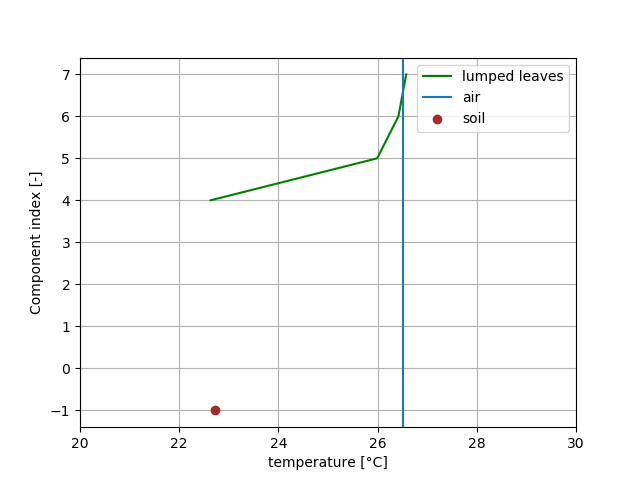
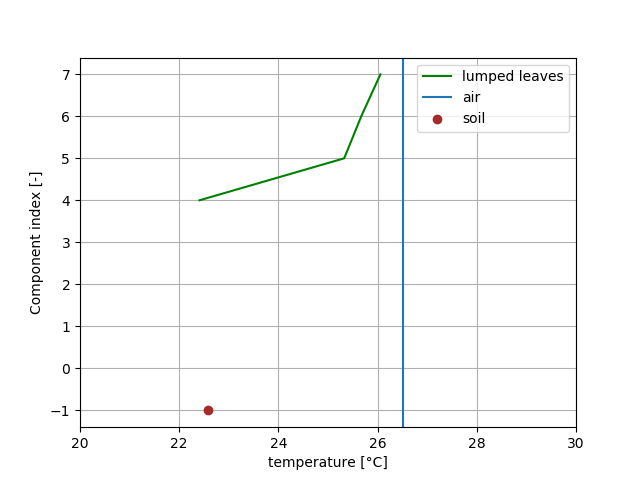
corrected the calculation of surface conductance of lumped leaf layers (use of incident irradiance in inputs)

diff --git a/src/crop_energy_balance/formalisms/lumped_leaves.py b/src/crop_energy_balance/formalisms/lumped_leaves.py
@@ -54,7 +54,7 @@ def calc_leaf_layer_boundary_resistance_to_heat(wind_speed_at_canopy_height: flo
     return 1.0 / calc_leaf_layer_boundary_conductance_to_vapor(**locals())
 
 
-def calc_leaf_layer_surface_conductance_to_vapor(absorbed_irradiance: float,
+def calc_leaf_layer_surface_conductance_to_vapor(incident_irradiance: float,
                                                  upper_cumulative_leaf_area_index: float,
                                                  lower_cumulative_leaf_area_index: float,
                                                  stomatal_sensibility_to_water_status: float,
@@ -65,7 +65,7 @@ def calc_leaf_layer_surface_conductance_to_vapor(absorbed_irradiance: float,
     """Calculates the bulk surface conductance of a leaf layer for both sides of leaves blade.
 
     Args:
-        absorbed_irradiance: [W m-2ground] absorbed photosynthetically active radiation
+        incident_irradiance: [W m-2ground] incident photosynthetically active radiation above the canopy
         upper_cumulative_leaf_area_index: [m2leaf m-2ground] cumulative leaf area index above the considered layer
         lower_cumulative_leaf_area_index: [m2leaf m-2ground] cumulative leaf area index below the considered layer
         stomatal_sensibility_to_water_status: [-] stomatal closure fraction due to water stress
@@ -80,16 +80,16 @@ def calc_leaf_layer_surface_conductance_to_vapor(absorbed_irradiance: float,
         [m h-1] bulk surface conductance of the leaf layer for both sides of leaves blade
     """
     scaling_factor = 1.0 / global_extinction_coefficient * log(
-        (global_extinction_coefficient * absorbed_irradiance *
+        (global_extinction_coefficient * incident_irradiance *
          exp(-global_extinction_coefficient * upper_cumulative_leaf_area_index) + shape_parameter) /
-        (global_extinction_coefficient * absorbed_irradiance *
+        (global_extinction_coefficient * incident_irradiance *
          exp(-global_extinction_coefficient * lower_cumulative_leaf_area_index) + shape_parameter))
 
     return residual_stomatal_conductance * (
             1 - scaling_factor) + maximum_stomatal_conductance * stomatal_sensibility_to_water_status * scaling_factor
 
 
-def calc_leaf_layer_surface_resistance_to_vapor(absorbed_irradiance: float,
+def calc_leaf_layer_surface_resistance_to_vapor(incident_irradiance: float,
                                                 upper_cumulative_leaf_area_index: float,
                                                 lower_cumulative_leaf_area_index: float,
                                                 stomatal_sensibility_to_water_status: float,
@@ -101,7 +101,7 @@ def calc_leaf_layer_surface_resistance_to_vapor(absorbed_irradiance: float,
     """Calculates the bulk surface conductance of a leaf layer.
 
     Args:
-        absorbed_irradiance: [W m-2ground] absorbed photosynthetically active radiation
+        incident_irradiance: [W m-2ground] incident photosynthetically active radiation above the canopy
         upper_cumulative_leaf_area_index: [m2leaf m-2ground] cumulative leaf area index above the considered layer
         lower_cumulative_leaf_area_index: [m2leaf m-2ground] cumulative leaf area index below the considered layer
         stomatal_sensibility_to_water_status: [-] stomatal closure fraction due to water stress

diff --git a/src/crop_energy_balance/inputs.py b/src/crop_energy_balance/inputs.py
@@ -61,13 +61,22 @@ class Inputs:
             The uppermost layer must have the highest number while the lowermost layer has the lowest number.
         """
 
-        self.absorbed_irradiance = self._inputs['absorbed_photosynthetically_active_radiation']
-        """[W_{PAR} m-2ground] dictionary of absorbed photosynthetically active radiation per crop component
+        self.incident_irradiance = self._inputs['incident_photosynthetically_active_radiation']
+        """[W_{PAR} m-2ground] dictionary of incident photosynthetically active radiation.
 
         Notes:
-            For lumped leaves, the absorbed irradiance per leaf layer is a dictionary having the key 'lumped'
+            For lumped leaves, the absorbed irradiance per leaf layer is a dictionary having the key 'lumped'.
             For sunlit and shaded leaves, the absorbed irradiance per leaf layer is a dictionary having the keys
-                'sunlit' and 'shaded'
+                'sunlit' and 'shaded'.
+        """
+
+        self.absorbed_irradiance = self._inputs['absorbed_photosynthetically_active_radiation']
+        """[W_{PAR} m-2ground] dictionary of absorbed photosynthetically active radiation per crop component.
+
+        Notes:
+            For lumped leaves, the absorbed irradiance per leaf layer is a dictionary having the key 'lumped'.
+            For sunlit and shaded leaves, the absorbed irradiance per leaf layer is a dictionary having the keys
+                'sunlit' and 'shaded'.
             The uppermost component must have the highest number while the lowermost component, i.e. soil, has the
                 lowest number which must be equal to -1.
         """
@@ -89,13 +98,6 @@ class LumpedInputs(Inputs):
 class SunlitShadedInputs(Inputs):
     def __init__(self, inputs_path: Path):
         Inputs.__init__(self, inputs_path)
-
-        self.incident_par = self._inputs['incident_photosynthetically_active_radiation']
-        """[W_{PAR} m-2ground] dictionary of incident photosynthetically active radiation.
-
-        Notes:
-            This input must be a dictionary having two keys, respectively 'sunlit' and 'shaded'
-        """
 
         self.solar_inclination = self._inputs['solar_inclination']
         """(Rad) the angle between solar beam and the horizon.

diff --git a/src/crop_energy_balance/crop.py b/src/crop_energy_balance/crop.py
@@ -11,6 +11,7 @@ constants = Constants()
 class CanopyStateVariables:
     def __init__(self,
                  inputs: LumpedInputs or SunlitShadedInputs):
+        self.incident_irradiance= inputs.incident_irradiance
         self.vapor_pressure_deficit = inputs.vapor_pressure_deficit
         self.vapor_pressure_slope = weather.calc_vapor_pressure_slope(
             utils.convert_kelvin_to_celsius(inputs.air_temperature, constants.absolute_zero))
@@ -224,7 +225,7 @@ class LumpedLeafComponent(LeafComponent):
             inputs.vapor_pressure_deficit,
             params.simulation.vapor_pressure_deficit_coefficient)
         self.surface_resistance = lumped_leaves.calc_leaf_layer_surface_resistance_to_vapor(
-            absorbed_irradiance=self.absorbed_irradiance,
+            incident_irradiance=canopy_state_variables.incident_irradiance['lumped'],
             upper_cumulative_leaf_area_index=self.upper_cumulative_leaf_area_index,
             lower_cumulative_leaf_area_index=self.lower_cumulative_leaf_area_index,
             stomatal_sensibility_to_water_status=self.stomatal_sensibility,
@@ -263,8 +264,8 @@ class SunlitShadedLeafComponent(LeafComponent):
             params.simulation.vapor_pressure_deficit_coefficient)
         self.surface_resistance = sunlit_shaded_leaves.calc_leaf_layer_surface_resistance_to_vapor(
             leaves_category=self.leaves_category,
-            incident_direct_irradiance=inputs.incident_par['direct'],
-            incident_diffuse_irradiance=inputs.incident_par['diffuse'],
+            incident_direct_irradiance=inputs.incident_irradiance['direct'],
+            incident_diffuse_irradiance=inputs.incident_irradiance['diffuse'],
             upper_cumulative_leaf_area_index=self.upper_cumulative_leaf_area_index,
             lower_cumulative_leaf_area_index=self.lower_cumulative_leaf_area_index,
             stomatal_sensibility_to_water_status=self.stomatal_sensibility,
